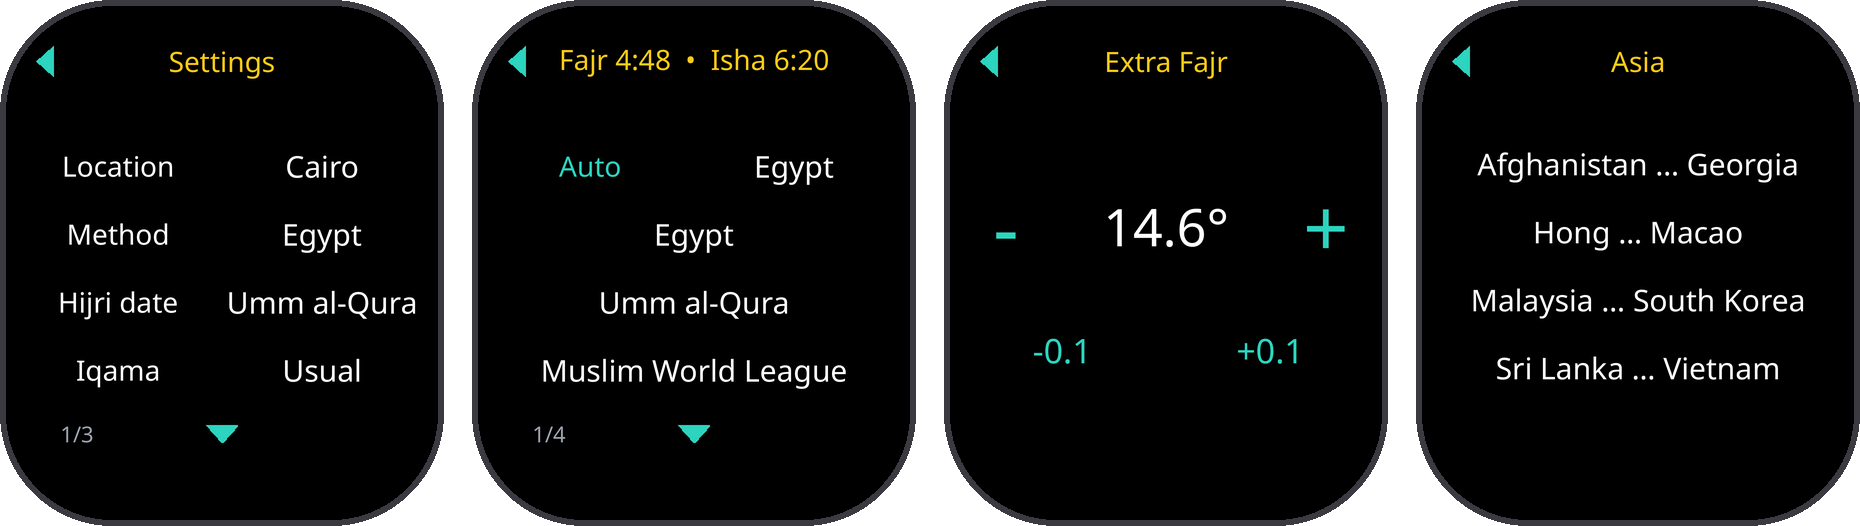
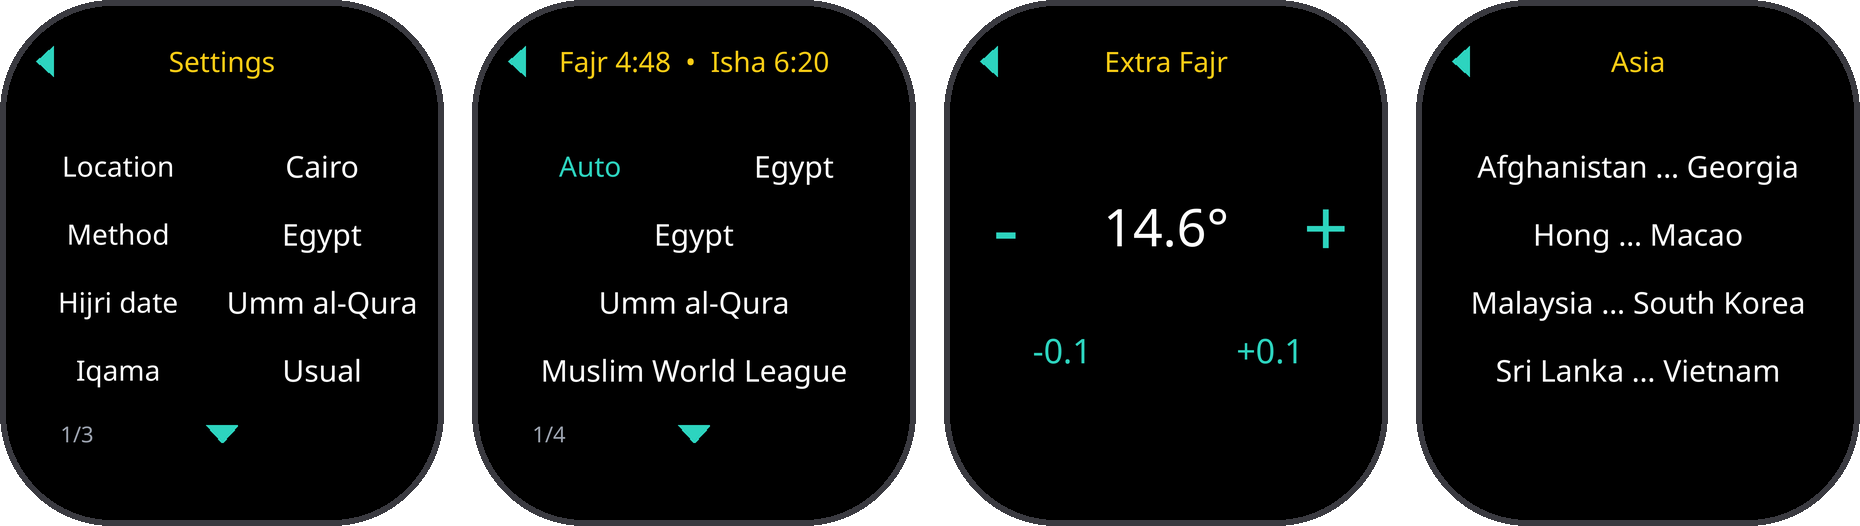
docs(watchface): render Zepp store previews in every language
tools/gen-docs.py writes docs/watchface/store/<lang>.png, the prayers page
at screen size. The renderer took any line with a character above U+0600
(such as the date line's bullet) for Arabic and drew it in Noto Sans
Arabic, which has no Cyrillic; it now looks for Arabic letters.

diff --git a/prayer-times-watchface/tools/gen-docs.py b/prayer-times-watchface/tools/gen-docs.py
@@ -3,7 +3,8 @@
 Writes ../docs/watchface/pages.png (the three pages + always-on display), countdown.png
 (countdown line states) and menu.png (settings menu screens, from tools/docs-menu.mjs, which runs
 the real menu code on stub @zos modules); pages-en.png and menu-en.png show the mirrored
-left-to-right layout in English. They show the first devices.json target. They live outside this folder so zeus doesn't pack them into the .zab. Run: python3 -I tools/gen-docs.py (via `mise run :gen`).
+left-to-right layout in English, and store/<lang>.png the Zepp store preview (prayers page, full
+screen size) in every face language. They show the first devices.json target. They live outside this folder so zeus doesn't pack them into the .zab. Run: python3 -I tools/gen-docs.py (via `mise run :gen`).
 """
 import json
 import subprocess
@@ -134,6 +135,16 @@ def main():
             states = row([face(prayers(d, s[k]), top) for k in ("prayers", "urgent", "iqama", "lastThird")])
             states.save(OUT / "countdown.png", optimize=True)
             written.append("countdown.png")
+    # Zepp store preview per language: the prayers page at screen size, square corners, no bezel
+    langs = json.loads(subprocess.check_output(
+        ["node", "-e", "import('./lib/i18n/index.js').then((m) => console.log(JSON.stringify(m.LANG_CODES)))"], cwd=ROOT))
+    (OUT / "store").mkdir(exist_ok=True)
+    for lang in langs:
+        d = json.loads(subprocess.check_output(["node", str(ROOT / "tools" / "docs-data.mjs"), lang], cwd=ROOT))
+        im = Image.new("RGBA", (DEV.w, DEV.h), (0, 0, 0, 255))
+        im.alpha_composite(prayers(d, d["scenes"]["prayers"]).image())
+        im.convert("RGB").save(OUT / "store" / f"{lang}.png", optimize=True)
+        written.append(f"store/{lang}.png")
     for f in written:
         im = Image.open(OUT / f)
         print(f"wrote docs/watchface/{f} {im.size} {(OUT / f).stat().st_size // 1024} KB")

diff --git a/prayer-times-watchface/tools/render.py b/prayer-times-watchface/tools/render.py
@@ -202,7 +202,7 @@ class Canvas:
         ltr: lay out left to right, as the watch does for a string with no Arabic letter before its
         digits (e.g. "+٠.١")."""
         x, y, w, h = box
-        latin = all(ord(c) < 0x0600 for c in s)
+        latin = not any(0x0600 <= ord(c) <= 0x08FF or 0xFB50 <= ord(c) <= 0xFEFF for c in s)  # no Arabic script
         path = LATIN_FONT if latin else (SYSTEM_ARABIC if system or not self.rtl else self.dev.arabic_font)
         rtl = self.rtl and not latin and not ltr
         f = font(path, size * SCALE)
